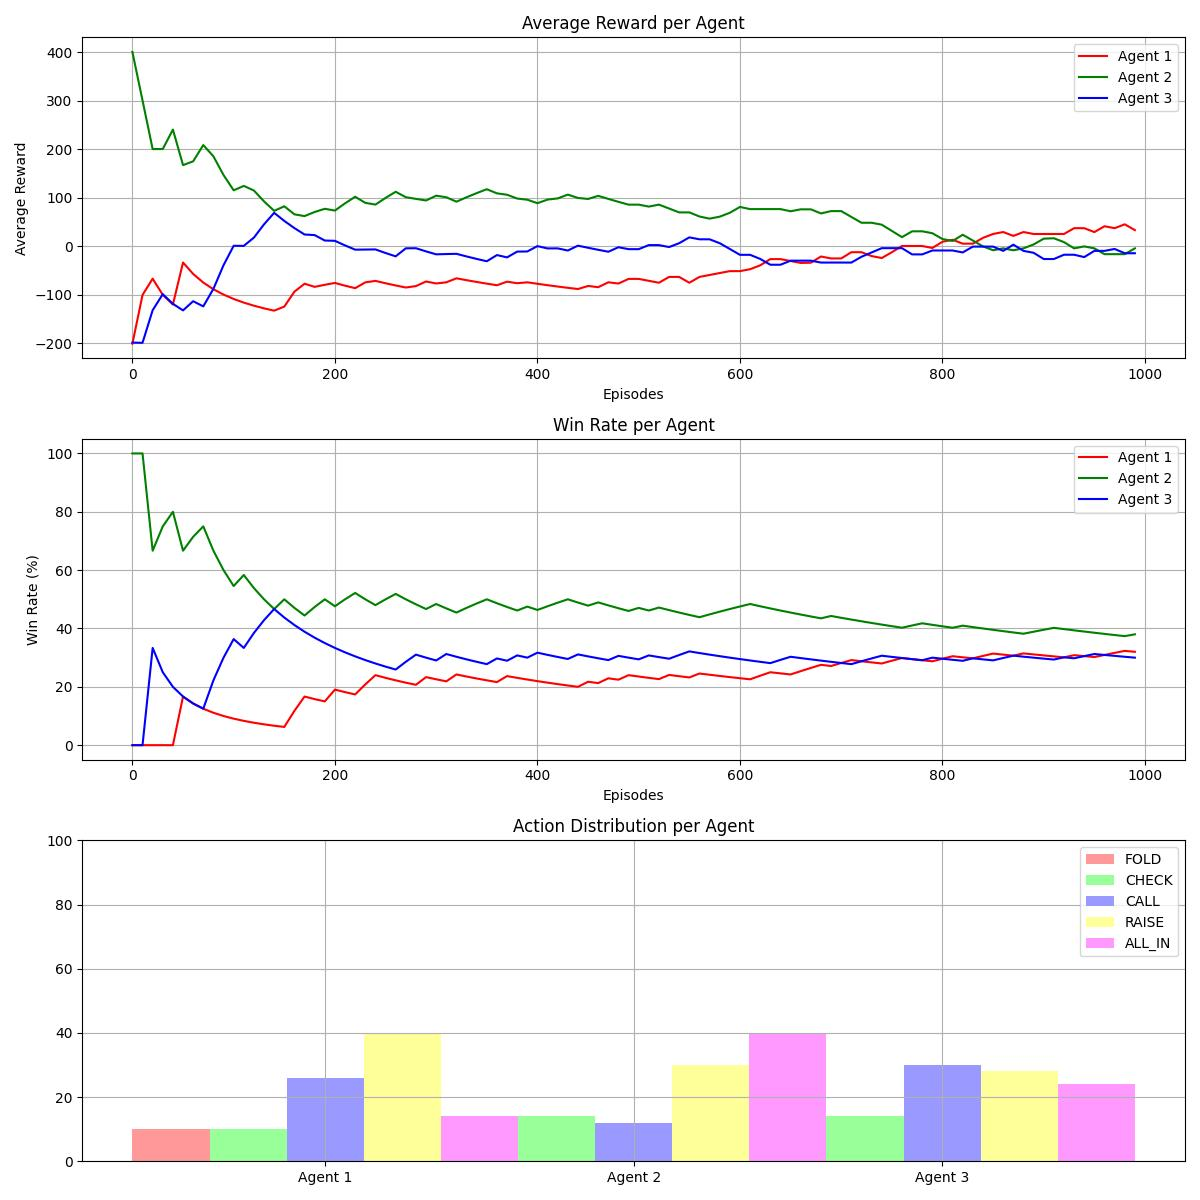
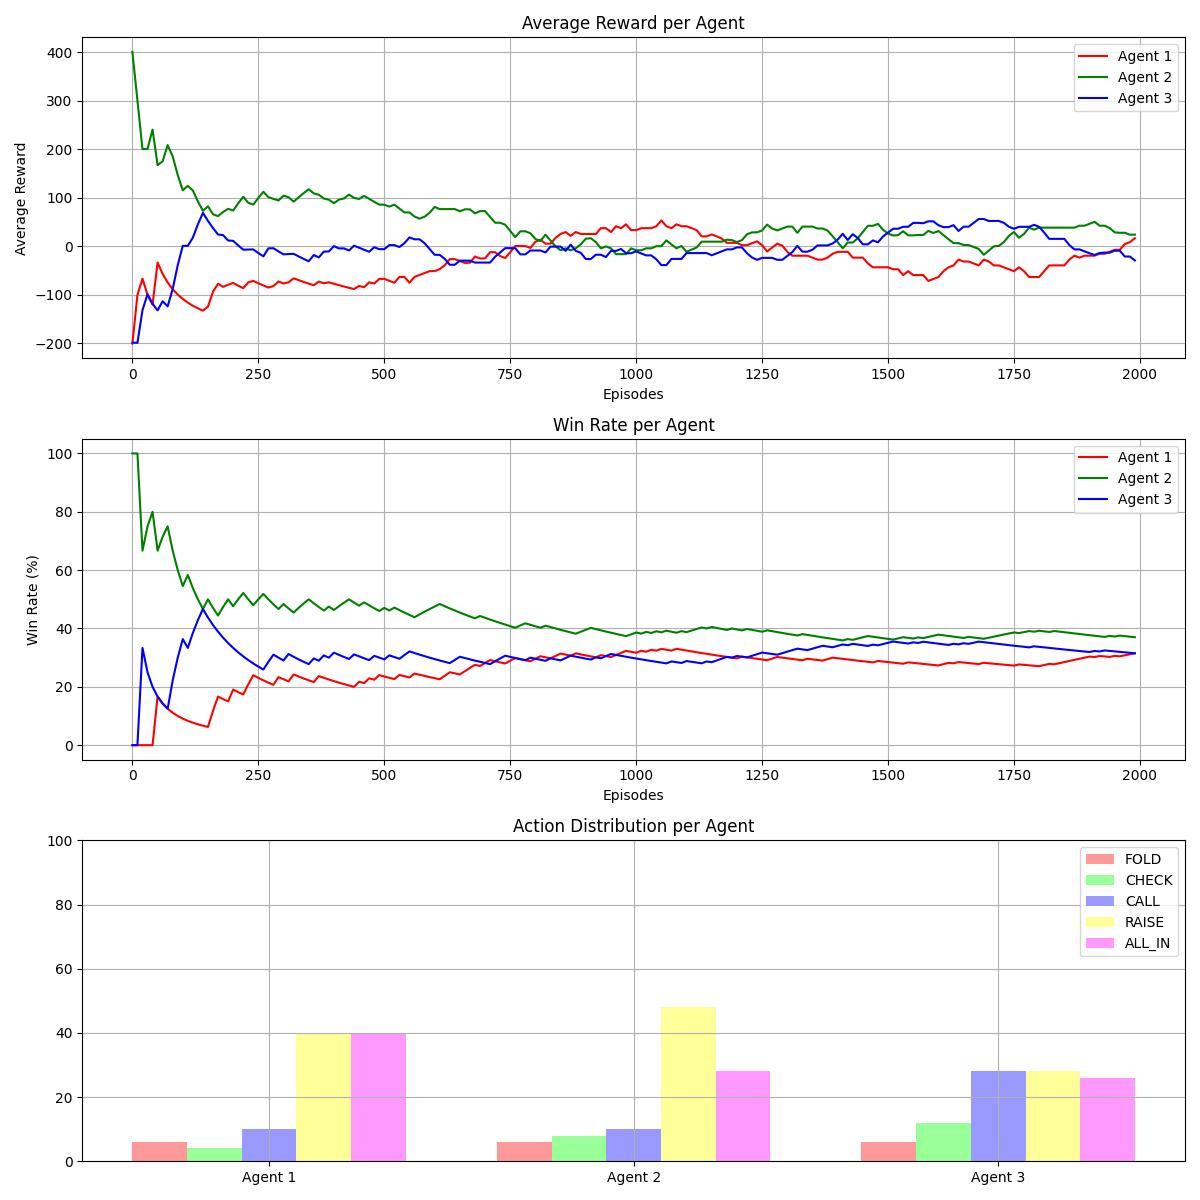
Improve action distribution bar chart visualization
- Reduced bar width for better readability
- Centered action distribution bars for each agent
- Adjusted x-axis ticks to align with agent names

diff --git a/visualization.py b/visualization.py
@@ -78,8 +78,12 @@ class TrainingVisualizer:
         self.ax3.set_title('Action Distribution per Agent')
         self.ax3.grid(True)
         
-        bar_width = 0.25
+        bar_width = 0.15  # Reduced from 0.25
         agent_positions = np.arange(len(self.rewards_data))
+        
+        # Calculate offset to center the group of bars
+        total_width = bar_width * len(self.action_data['Agent 1'].keys())
+        offset = total_width / 2 - bar_width / 2
         
         for action_idx, action_name in enumerate(self.action_data['Agent 1'].keys()):
             action_percentages = []
@@ -91,13 +95,13 @@ class TrainingVisualizer:
                     percentage = 0
                 action_percentages.append(percentage)
             
-            self.ax3.bar(agent_positions + action_idx * bar_width, 
+            self.ax3.bar(agent_positions + action_idx * bar_width - offset,
                         action_percentages,
                         bar_width,
                         label=action_name,
                         color=self.action_colors[action_name])
         
-        self.ax3.set_xticks(agent_positions + bar_width * 2)
+        self.ax3.set_xticks(agent_positions)
         self.ax3.set_xticklabels(self.rewards_data.keys())
         self.ax3.legend()
         self.ax3.set_ylim(0, 100)
